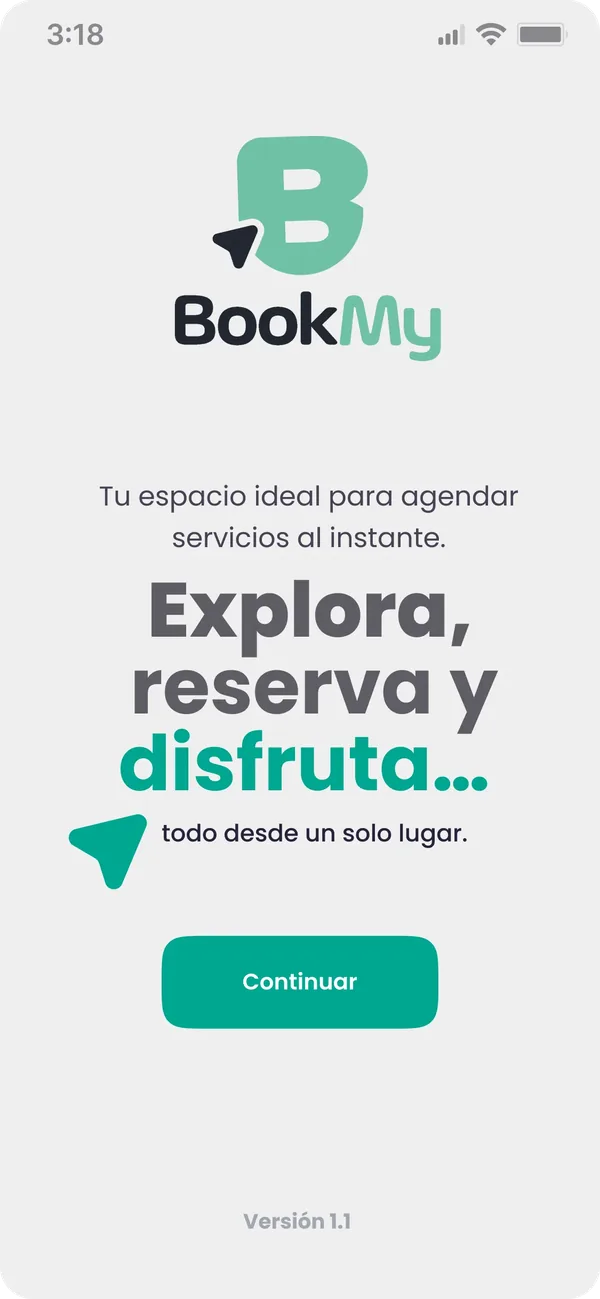
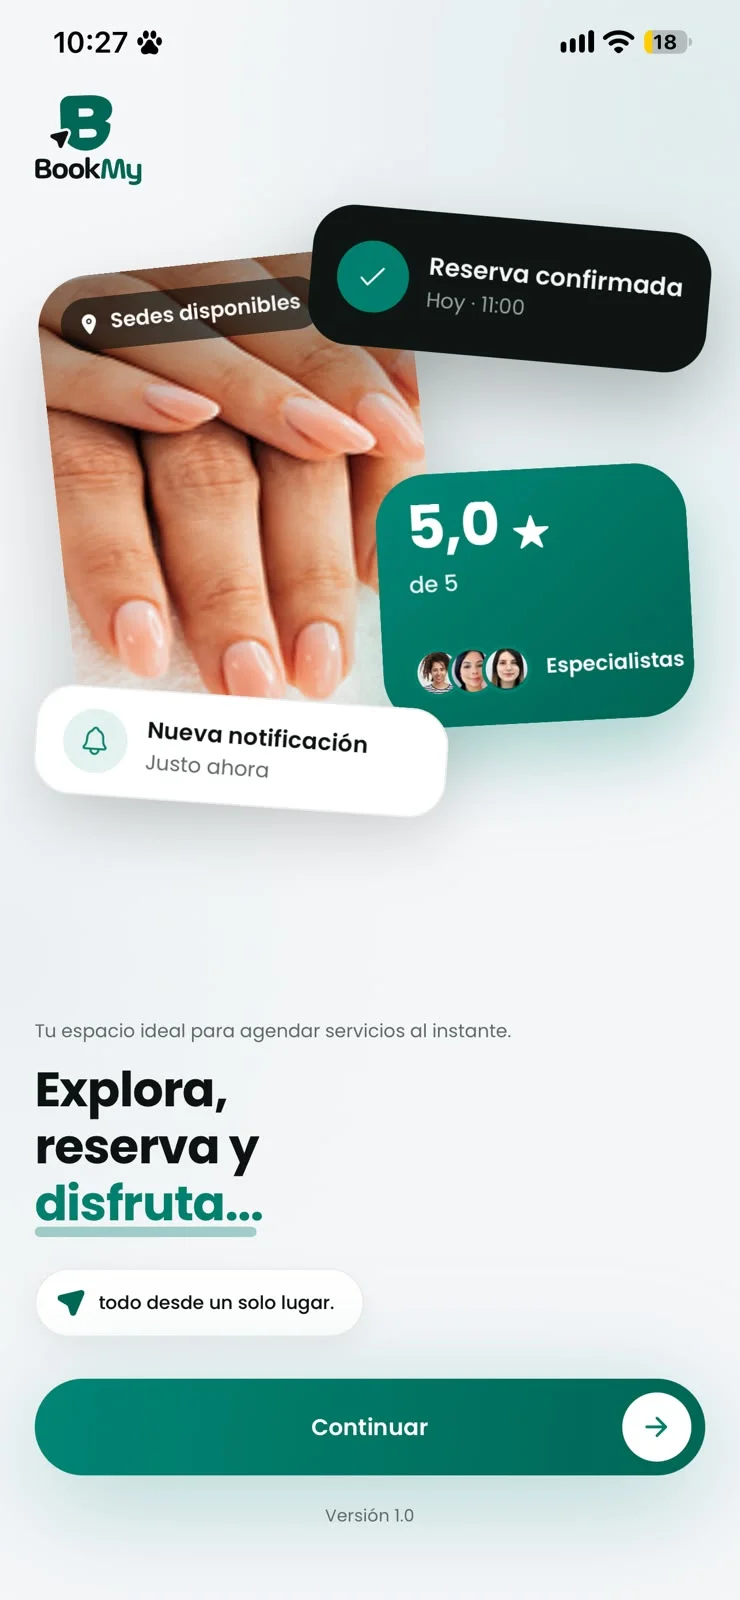
Las capturas de la app, a la versión nueva
Las siete imágenes de la pantalla de la app (/app, la puerta «Bookmy»
del portal) pasan a la versión nueva: los cinco pasos y las dos
maquetas de claro y oscuro. Se conservan los nombres de siempre y solo
cambian los bytes, así que nada más del código tuvo que moverse.

QUÉ ES CADA UNA
  app-bienvenida  ← app-bookmy-1       (bienvenida)
  app-login       ← app-bookmy-login   (correo, contraseña y Face ID)
  app-reserva     ← app-bookmy-6       (día y hora)
  app-pago        ← app-bookmy-pago    (método de pago)
  app-confirmada  ← app-bookmy-7       (cita reservada)
  app-phones-claro / -oscuro ← bookmy-claro / bookmy-oscuro

LAS MEDIDAS ESTABAN ESCRITAS A MANO Y HABÍA QUE TOCARLAS
Cada paso llevaba su `alto` (1299 o 1395) y el ancho estaba fijo a 600
en tres sitios. Las nuevas miden 740x1600 todas. Esas medidas son las
que hacen que el navegador reserve el hueco antes de descargar la
imagen; si no cuadran con el fichero, la página pega un salto al
cargar. Ahora cada paso lleva `ancho` y `alto` reales y queda avisado
en el código de que hay que cambiarlos con la imagen.

LAS MAQUETAS VENÍAN A 1 MB
bookmy-claro pesaba 1085 KB y bookmy-oscuro 839 KB, a 1800 px de ancho,
y se ven a 420 como mucho (.ap-theme__stage es width: min(420px,100%)).
Reducidas a 840 —el doble de lo que se ve, que es lo que necesita una
pantalla retina— y recomprimidas: 83 y 79 KB. Casi 1,8 MB menos en una
página pública, y se ven más grandes que las de antes.
[…]

diff --git a/src/app/(web)/app/PantallaApp.tsx b/src/app/(web)/app/PantallaApp.tsx
@@ -106,8 +106,8 @@ function Hero() {
                   className="is-on"
                   src={`${IMG}/app-reserva.webp`}
                   alt=""
-                  width={600}
-                  height={1395}
+                  width={740}
+                  height={1600}
                   fetchPriority="high"
                   decoding="async"
                 />
@@ -149,12 +149,19 @@ function Hero() {
        pantalla. El `data-step` de cada pieza es lo que empareja
        el texto, la captura y el aviso; lo enciende el motor.
 ============================================================ */
+/* `ancho` y `alto` son las medidas REALES del fichero, y van una por
+   paso porque no todas coinciden. Sirven para que el navegador reserve
+   el hueco antes de descargar la imagen y la página no pegue un salto;
+   si no cuadran con el fichero, el salto vuelve. Al cambiar una captura
+   hay que cambiarlas con ella.
+
+   Las cinco son de la versión nueva de la app y miden 740x1600. */
 const PASOS = [
-  { clave: "descarga", img: "app-bienvenida.webp", alto: 1299, icono: "i-download", ib: "ib", x: "-210px", y: "120px", z: "120px" },
-  { clave: "entrar", img: "app-login.webp", alto: 1299, icono: "i-user-check", ib: "ib ib--cyan", x: "170px", y: "200px", z: "140px" },
-  { clave: "elegir", img: "app-reserva.webp", alto: 1395, icono: "i-calendar-clock", ib: "ib", x: "-230px", y: "300px", z: "160px" },
-  { clave: "pagar", img: "app-pago.webp", alto: 1395, icono: "i-credit-card", ib: "ib ib--lime", x: "160px", y: "380px", z: "150px" },
-  { clave: "confirmar", img: "app-confirmada.webp", alto: 1395, icono: "i-check", ib: "ib ib--solid", x: "-200px", y: "440px", z: "170px" },
+  { clave: "descarga", img: "app-bienvenida.webp", ancho: 740, alto: 1600, icono: "i-download", ib: "ib", x: "-210px", y: "120px", z: "120px" },
+  { clave: "entrar", img: "app-login.webp", ancho: 740, alto: 1600, icono: "i-user-check", ib: "ib ib--cyan", x: "170px", y: "200px", z: "140px" },
+  { clave: "elegir", img: "app-reserva.webp", ancho: 740, alto: 1600, icono: "i-calendar-clock", ib: "ib", x: "-230px", y: "300px", z: "160px" },
+  { clave: "pagar", img: "app-pago.webp", ancho: 740, alto: 1600, icono: "i-credit-card", ib: "ib ib--lime", x: "160px", y: "380px", z: "150px" },
+  { clave: "confirmar", img: "app-confirmada.webp", ancho: 740, alto: 1600, icono: "i-check", ib: "ib ib--solid", x: "-200px", y: "440px", z: "170px" },
 ] as const;
 
 function Pasos({ precio }: { precio: string }) {
@@ -176,7 +183,7 @@ function Pasos({ precio }: { precio: string }) {
                     className="ap-step__img"
                     src={`${IMG}/${p.img}`}
                     alt={w(`app.pasos.${p.clave}.alt`)}
-                    width={600}
+                    width={p.ancho}
                     height={p.alto}
                     loading="lazy"
                     decoding="async"
@@ -215,7 +222,7 @@ function Pasos({ precio }: { precio: string }) {
                         className={i === 0 ? "is-on" : undefined}
                         src={`${IMG}/${p.img}`}
                         alt=""
-                        width={600}
+                        width={p.ancho}
                         height={p.alto}
                         loading="lazy"
                         decoding="async"
@@ -346,8 +353,8 @@ function DiaYNoche() {
             className="ap-theme__img ap-theme__img--light"
             src={`${IMG}/app-phones-claro.webp`}
             alt={w("app.tema.altClaro")}
-            width={731}
-            height={836}
+            width={840}
+            height={1114}
             loading="lazy"
             decoding="async"
           />
@@ -355,8 +362,8 @@ function DiaYNoche() {
             className="ap-theme__img ap-theme__img--dark"
             src={`${IMG}/app-phones-oscuro.webp`}
             alt={w("app.tema.altOscuro")}
-            width={433}
-            height={712}
+            width={840}
+            height={1114}
             loading="lazy"
             decoding="async"
           />

diff --git a/src/i18n/dictionaries/web/app.en.ts b/src/i18n/dictionaries/web/app.en.ts
@@ -48,7 +48,7 @@ const appEn: TextosApp = {
     },
 
     entrar: {
-      alt: "Sign-in screen with email, Google, Apple or Facebook",
+      alt: "Sign-in screen with email and password, or Face ID",
       titulo: "Sign in in a minute",
       texto:
         "Sign up with your email or log in with Google, Apple or Facebook. Your details and your bookings stay saved.",
@@ -59,7 +59,7 @@ const appEn: TextosApp = {
     },
 
     elegir: {
-      alt: "Screen for choosing a specialist, a day and a time",
+      alt: "Screen for choosing the day and time of the booking",
       titulo: "Pick the day, the time and the specialist",
       texto:
         "Search for your service, see only the slots that are genuinely free, and choose the professional you like best.",
@@ -129,8 +129,8 @@ const appEn: TextosApp = {
     check1: "Light mode and dark mode",
     check2: "Photos of the place and of every service",
     check3: "Price, duration and ratings right there",
-    altClaro: "The Bookmy app in light mode: choosing a payment method, and choosing a day and a time",
-    altOscuro: "The Bookmy app in dark mode: choosing a payment method, and choosing a day and a time",
+    altClaro: "The Bookmy app in light mode: the home screen with nearby businesses, and a business page with its specialists and services",
+    altOscuro: "The Bookmy app in dark mode: the home screen and your bookings list, with reschedule and cancel",
   },
 
   /* ── The bridge to businesses ────────────────────────────── */

diff --git a/src/i18n/dictionaries/web/app.es.ts b/src/i18n/dictionaries/web/app.es.ts
@@ -63,7 +63,7 @@ const appEs = {
     },
 
     entrar: {
-      alt: "Pantalla para entrar en la app con email, Google, Apple o Facebook",
+      alt: "Pantalla para entrar en la app con correo y contraseña o con Face ID",
       titulo: "Entra en un minuto",
       texto:
         "Regístrate con tu email o entra con Google, Apple o Facebook. Tus datos y tus reservas quedan guardados.",
@@ -74,7 +74,7 @@ const appEs = {
     },
 
     elegir: {
-      alt: "Pantalla para elegir especialista, día y hora",
+      alt: "Pantalla para elegir el día y la hora de la reserva",
       titulo: "Elige día, hora y especialista",
       texto:
         "Busca tu servicio, mira solo los huecos libres de verdad y elige a la profesional que prefieres.",
@@ -145,8 +145,8 @@ const appEs = {
     check1: "Modo claro y modo oscuro",
     check2: "Fotos del centro y de cada servicio",
     check3: "Precio, duración y valoraciones a la vista",
-    altClaro: "App Bookmy en modo claro: elegir método de pago y elegir día y hora",
-    altOscuro: "App Bookmy en modo oscuro: elegir método de pago y elegir día y hora",
+    altClaro: "App Bookmy en modo claro: la pantalla de inicio con los negocios cercanos y la ficha de un negocio con sus especialistas y servicios",
+    altOscuro: "App Bookmy en modo oscuro: la pantalla de inicio y la lista de tus reservas, con reagendar y cancelar",
   },
 
   /* ── El puente a las empresas ────────────────────────────── */

diff --git a/src/app/(web)/planes/basic/PlanBasic.tsx b/src/app/(web)/planes/basic/PlanBasic.tsx
@@ -142,8 +142,8 @@ export default function PlanBasic() {
                       className="is-on"
                       src="/web/v2/img/app-reserva.webp"
                       alt=""
-                      width={600}
-                      height={1395}
+                      width={740}
+                      height={1600}
                       fetchPriority="high"
                       decoding="async"
                     />
